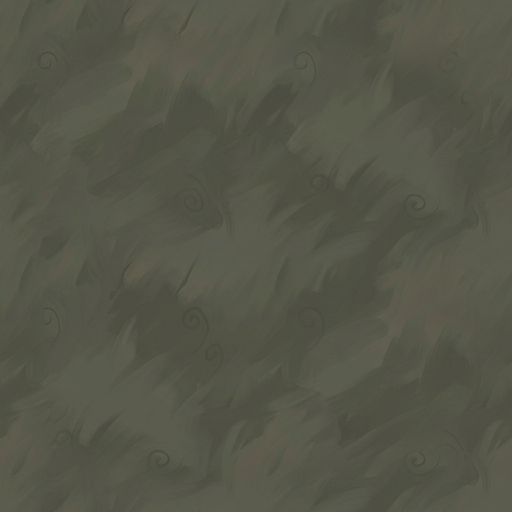
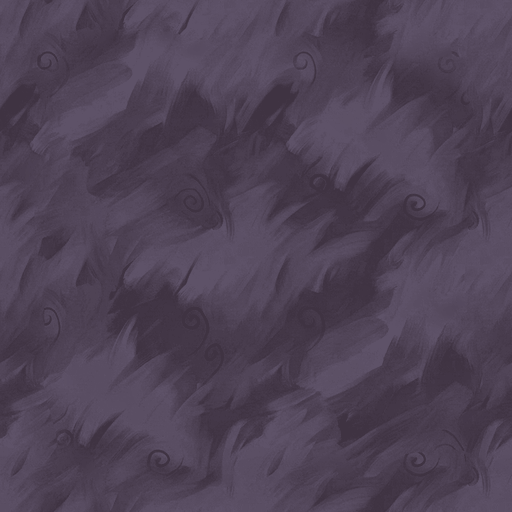
Grama roxa acinzentada, mais clara que a terra do pátio (repintada por degradê, 0 créditos)
- textures.py: recolorir (degradê entre duas cores guiado pelo brilho, mantém as pinceladas)
- Grama de #3F3342 a #5E5268; na tela, brilho 0,20 contra 0,07 da terra

diff --git a/tools/meshy_pipeline/textures.py b/tools/meshy_pipeline/textures.py
@@ -198,6 +198,19 @@ def emission_mask(texture: np.ndarray, hex_color: str) -> np.ndarray:
     return np.clip(mask / np.percentile(lit, 90), 0, 1) if lit.size else mask
 
 
+def recolor(texture: np.ndarray, dark_hex: str, light_hex: str) -> np.ndarray:
+    """Repinta a textura com um degradê entre duas cores, mantendo as pinceladas (o claro e escuro).
+
+    O brilho de cada pixel (normalizado entre os percentis 2 e 98) escolhe a cor no degradê.
+    """
+    def rgb(hex_color: str) -> np.ndarray:
+        return np.array([int(hex_color[i:i + 2], 16) for i in (1, 3, 5)], dtype=np.float32) / 255
+    lum = luminance(texture)
+    low, high = np.percentile(lum, (2, 98))
+    t = np.clip((lum - low) / max(high - low, 1e-6), 0, 1)[..., None]
+    return rgb(dark_hex) * (1 - t) + rgb(light_hex) * t
+
+
 def save_png(array: np.ndarray, path: Path, mode: str = "RGB") -> None:
     path.parent.mkdir(parents=True, exist_ok=True)
     Image.fromarray(np.clip(array * 255, 0, 255).round().astype(np.uint8), mode).save(path)
@@ -229,6 +242,10 @@ def process(entry: dict, raw_path: Path, size: int) -> tuple[Image.Image, dict]:
     seamless = image if keep else make_seamless(image, seed)
     small = Image.fromarray(np.clip(seamless * 255, 0, 255).round().astype(np.uint8), "RGB")
     small = small.resize((size, size), Image.LANCZOS)
+    if "recolorir" in entry:
+        colors = entry["recolorir"]
+        array = recolor(np.asarray(small, dtype=np.float32) / 255, colors["escuro"], colors["claro"])
+        small = Image.fromarray(np.clip(array * 255, 0, 255).round().astype(np.uint8), "RGB")
     metrics = seam_metrics(np.asarray(small, dtype=np.float32) / 255)
     if entry.get("modo") == "placa":
         metrics["placa"] = True  # laje com borda própria: a borda é desenho, não emenda

diff --git a/docs/DIARIO.md b/docs/DIARIO.md
@@ -1012,3 +1012,23 @@ onde errou, correções manuais e quanto tempo levou.
 - `dotnet build`: 0 erros, 0 avisos. `dotnet test`: 80 aprovados.
 - **Correções manuais:** nenhuma.
 - **Tempo:** 06:05–06:20 de relógio.
+
+---
+
+## 2026-09-26 — Grama roxa (mais clara que a terra)
+
+- **Agente / modelo:** Claude Code + Opus 5.5, na branch `arte`.
+- **Pedido:** "esquece essa grama verde, deixa ela em tom de roxo mais claro que aquele roxo que o personagem
+  principal tá pisando de começo" (a terra arroxeada do pátio).
+- **O que foi feito (0 créditos):** em vez de gerar outra imagem, `textures.py` ganhou `recolorir`: repinta a
+  textura com um degradê entre duas cores, e o brilho de cada pixel escolhe a cor (as pinceladas e o
+  contraste baixo continuam). Grama: de terra arroxeada #3F3342 (escuro) a um roxo acinzentado #5E5268
+  (claro). A primeira tentativa usou o líquen roxo #6B4F7C no claro e saiu roxo vivo demais na tela
+  (saturação 0,50, pinceladas chamando atenção).
+- **Medido na tela (câmera normal):** grama #251C33, brilho 0,20; terra do pátio #120B12, brilho 0,07 (a
+  grama fica bem mais clara que a terra, como pedido). A névoa e a correção de cor da cena puxam tudo
+  para o roxo; na tela a saturação da grama fica em 0,44.
+- **Observação:** numa gravação o jogo apareceu na câmera cinematográfica sem ninguém apertar C; na seguinte,
+  não. Não investiguei (é do agente do jogo); fica o registro.
+- **Correções manuais:** nenhuma.
+- **Tempo:** 06:25–06:40 de relógio.
